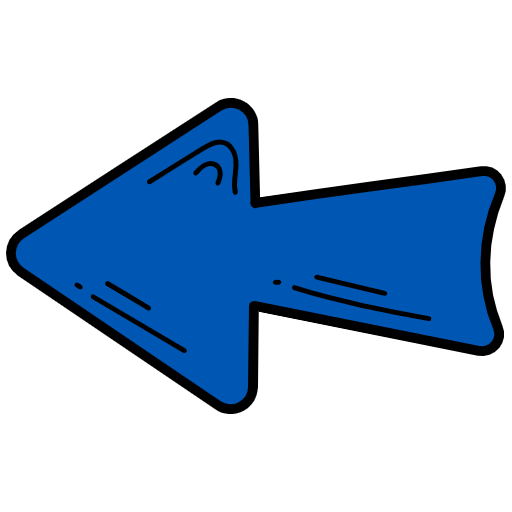
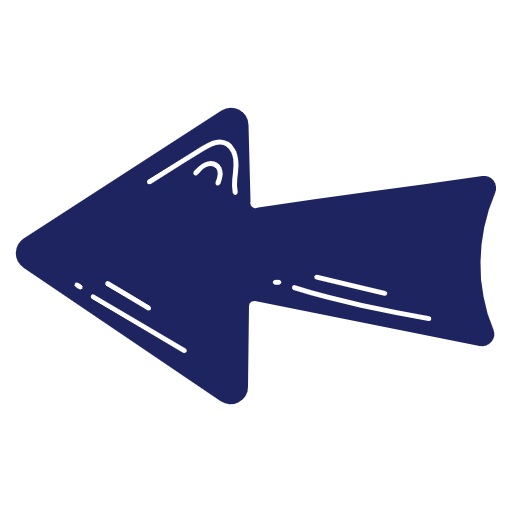
änderung farbe

diff --git a/retterwissen/innovationen.php b/retterwissen/innovationen.php
@@ -98,7 +98,7 @@
             font-size: 22px; /* Schriftgröße */
             text-decoration: none;
             color: white;
-            background-color: #1e2460; /* Blaue Buttons */
+            background-color: #0056b3; /* Blaue Buttons */
             border-radius: 10px; /* Abgerundete Ecken */
             transition: background-color 0.3s ease, transform 0.3s ease;
             font-family: 'Bangers', cursive;
